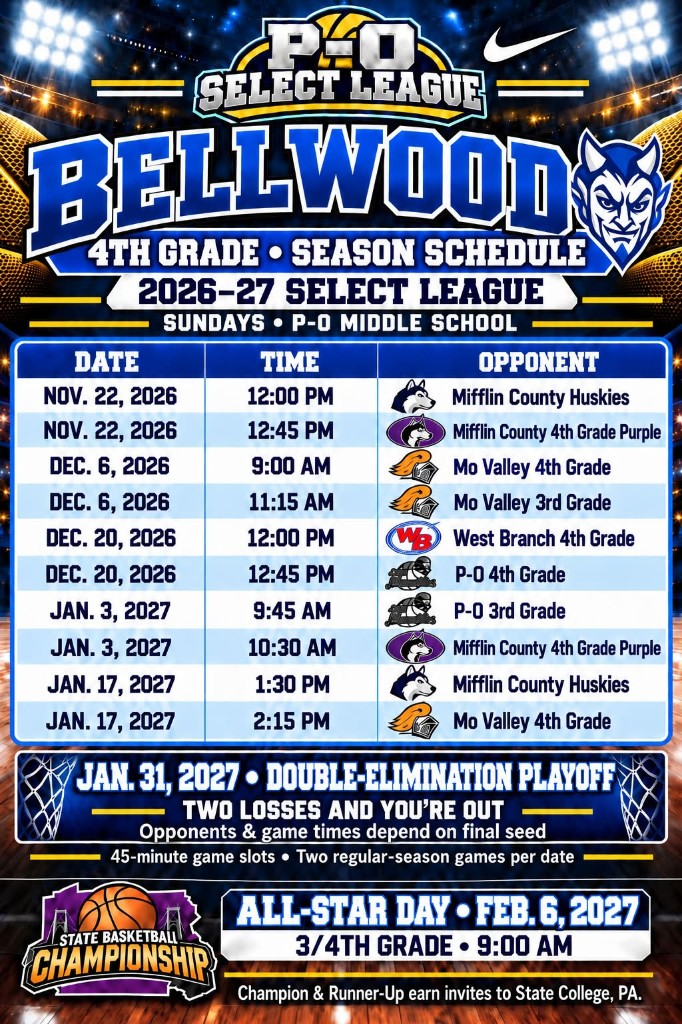
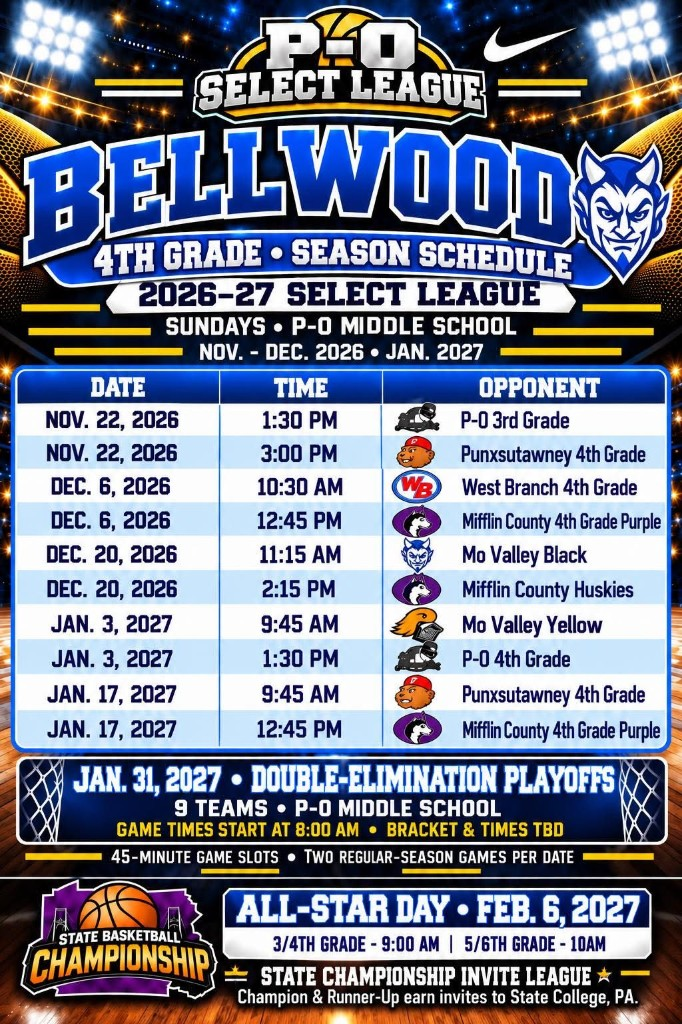
Update Bellwood 3-4 and 6th Blue schedule posters.

diff --git a/src/lib/drive-assets.ts b/src/lib/drive-assets.ts
@@ -25,7 +25,10 @@ export function schoolTeamImage(slug: string): string | undefined {
 const scheduleKeysBySlug: Record<string, string[]> = {
   tyrone: ["schools.tyrone.schedule"],
   clearfield: ["schools.clearfield.schedule"],
-  "bellwood-antis": ["schools.bellwood-antis.schedule-grades-5-6-blue"],
+  "bellwood-antis": [
+    "schools.bellwood-antis.schedule-grades-3-4",
+    "schools.bellwood-antis.schedule-grades-5-6-blue",
+  ],
   "philipsburg-osceola": [
     "schools.philipsburg-osceola.schedule-grades-3-4",
     "schools.philipsburg-osceola.schedule-grades-5-6",
